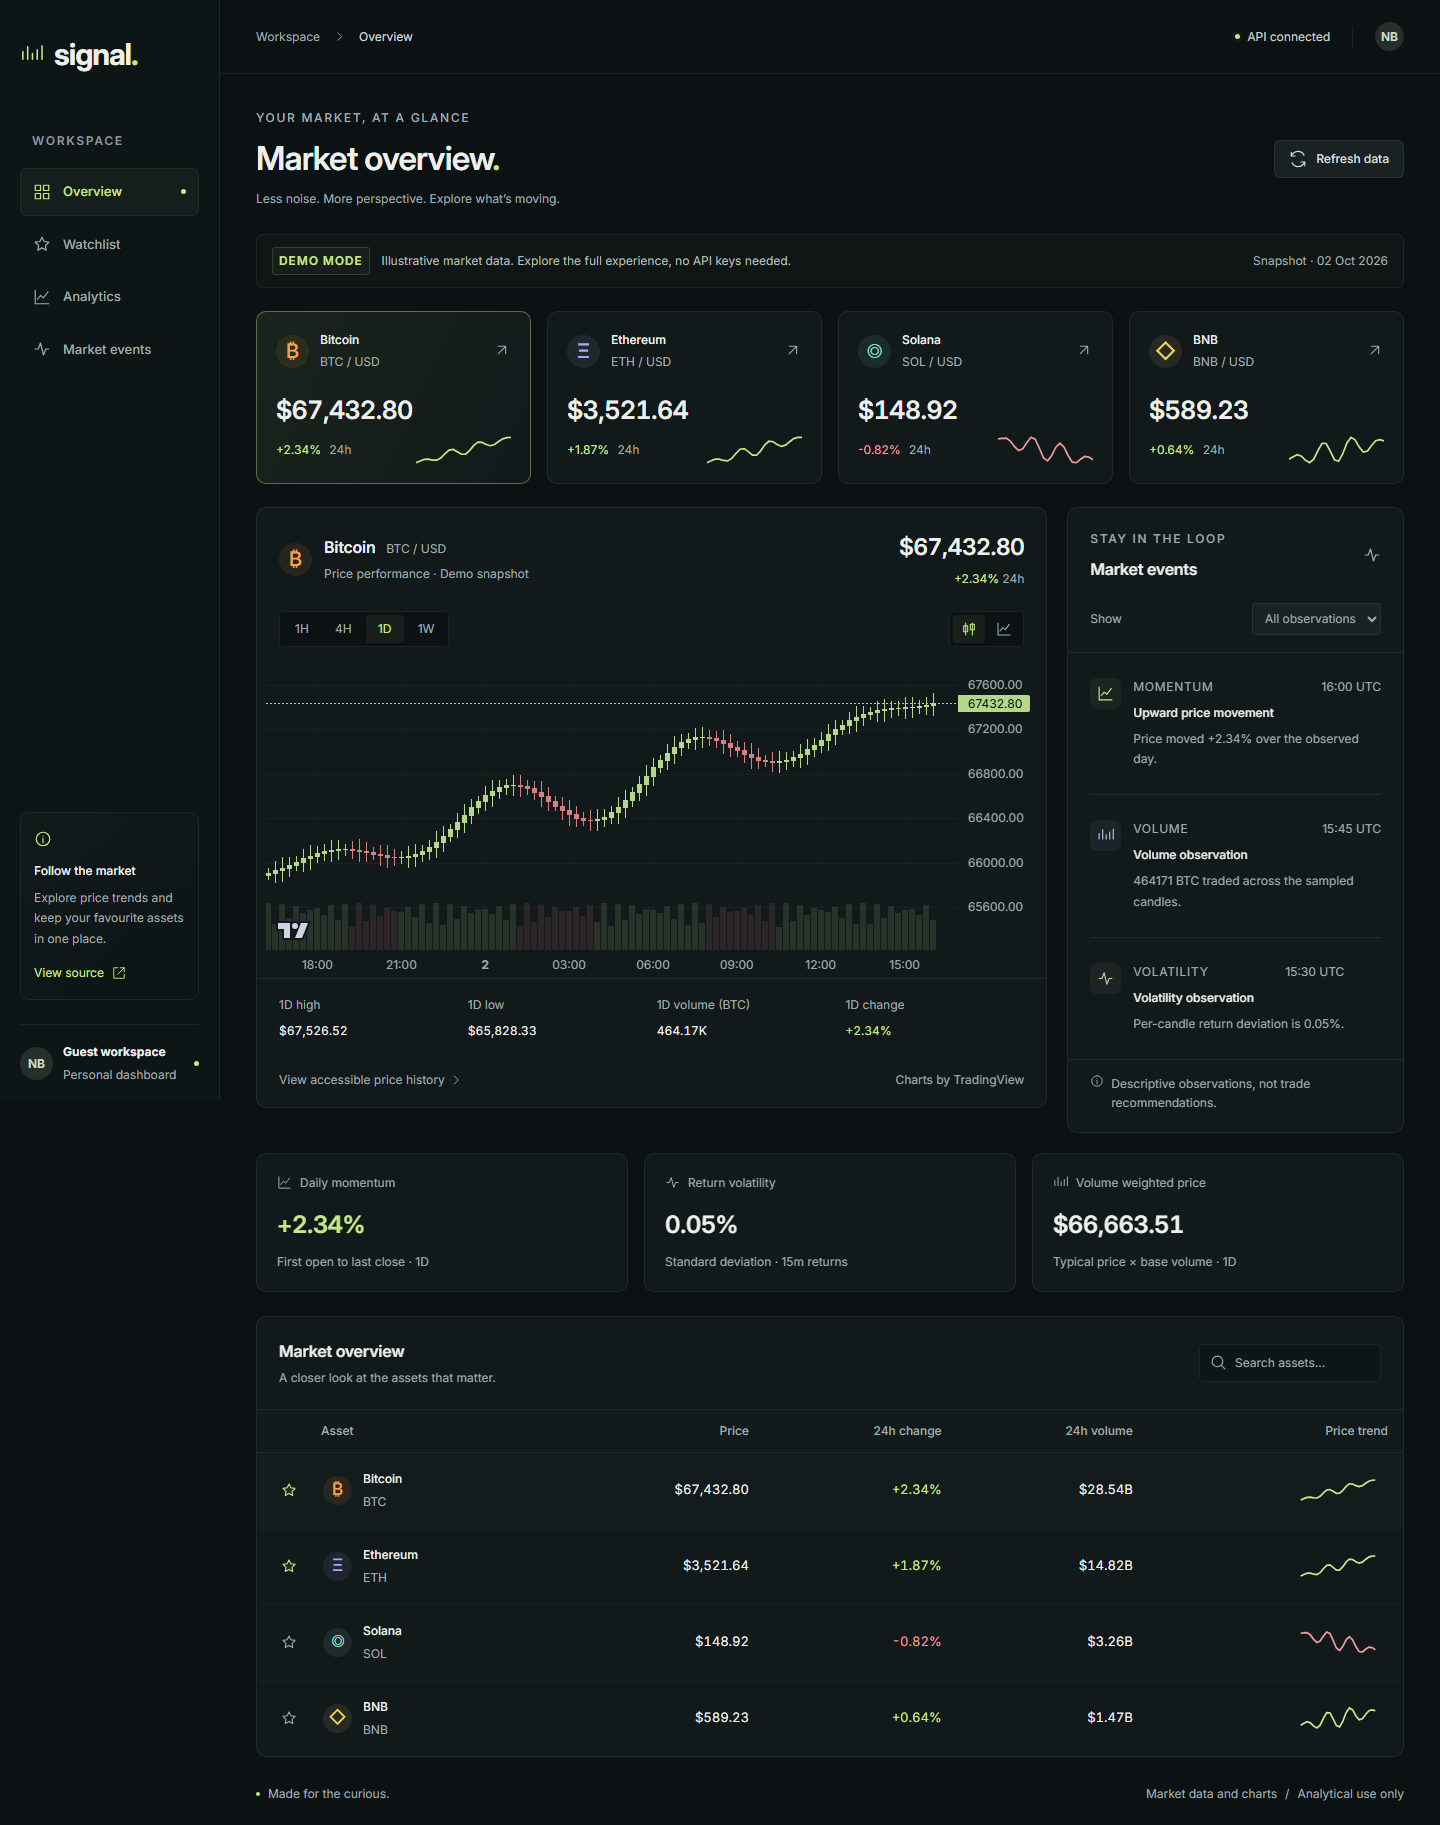
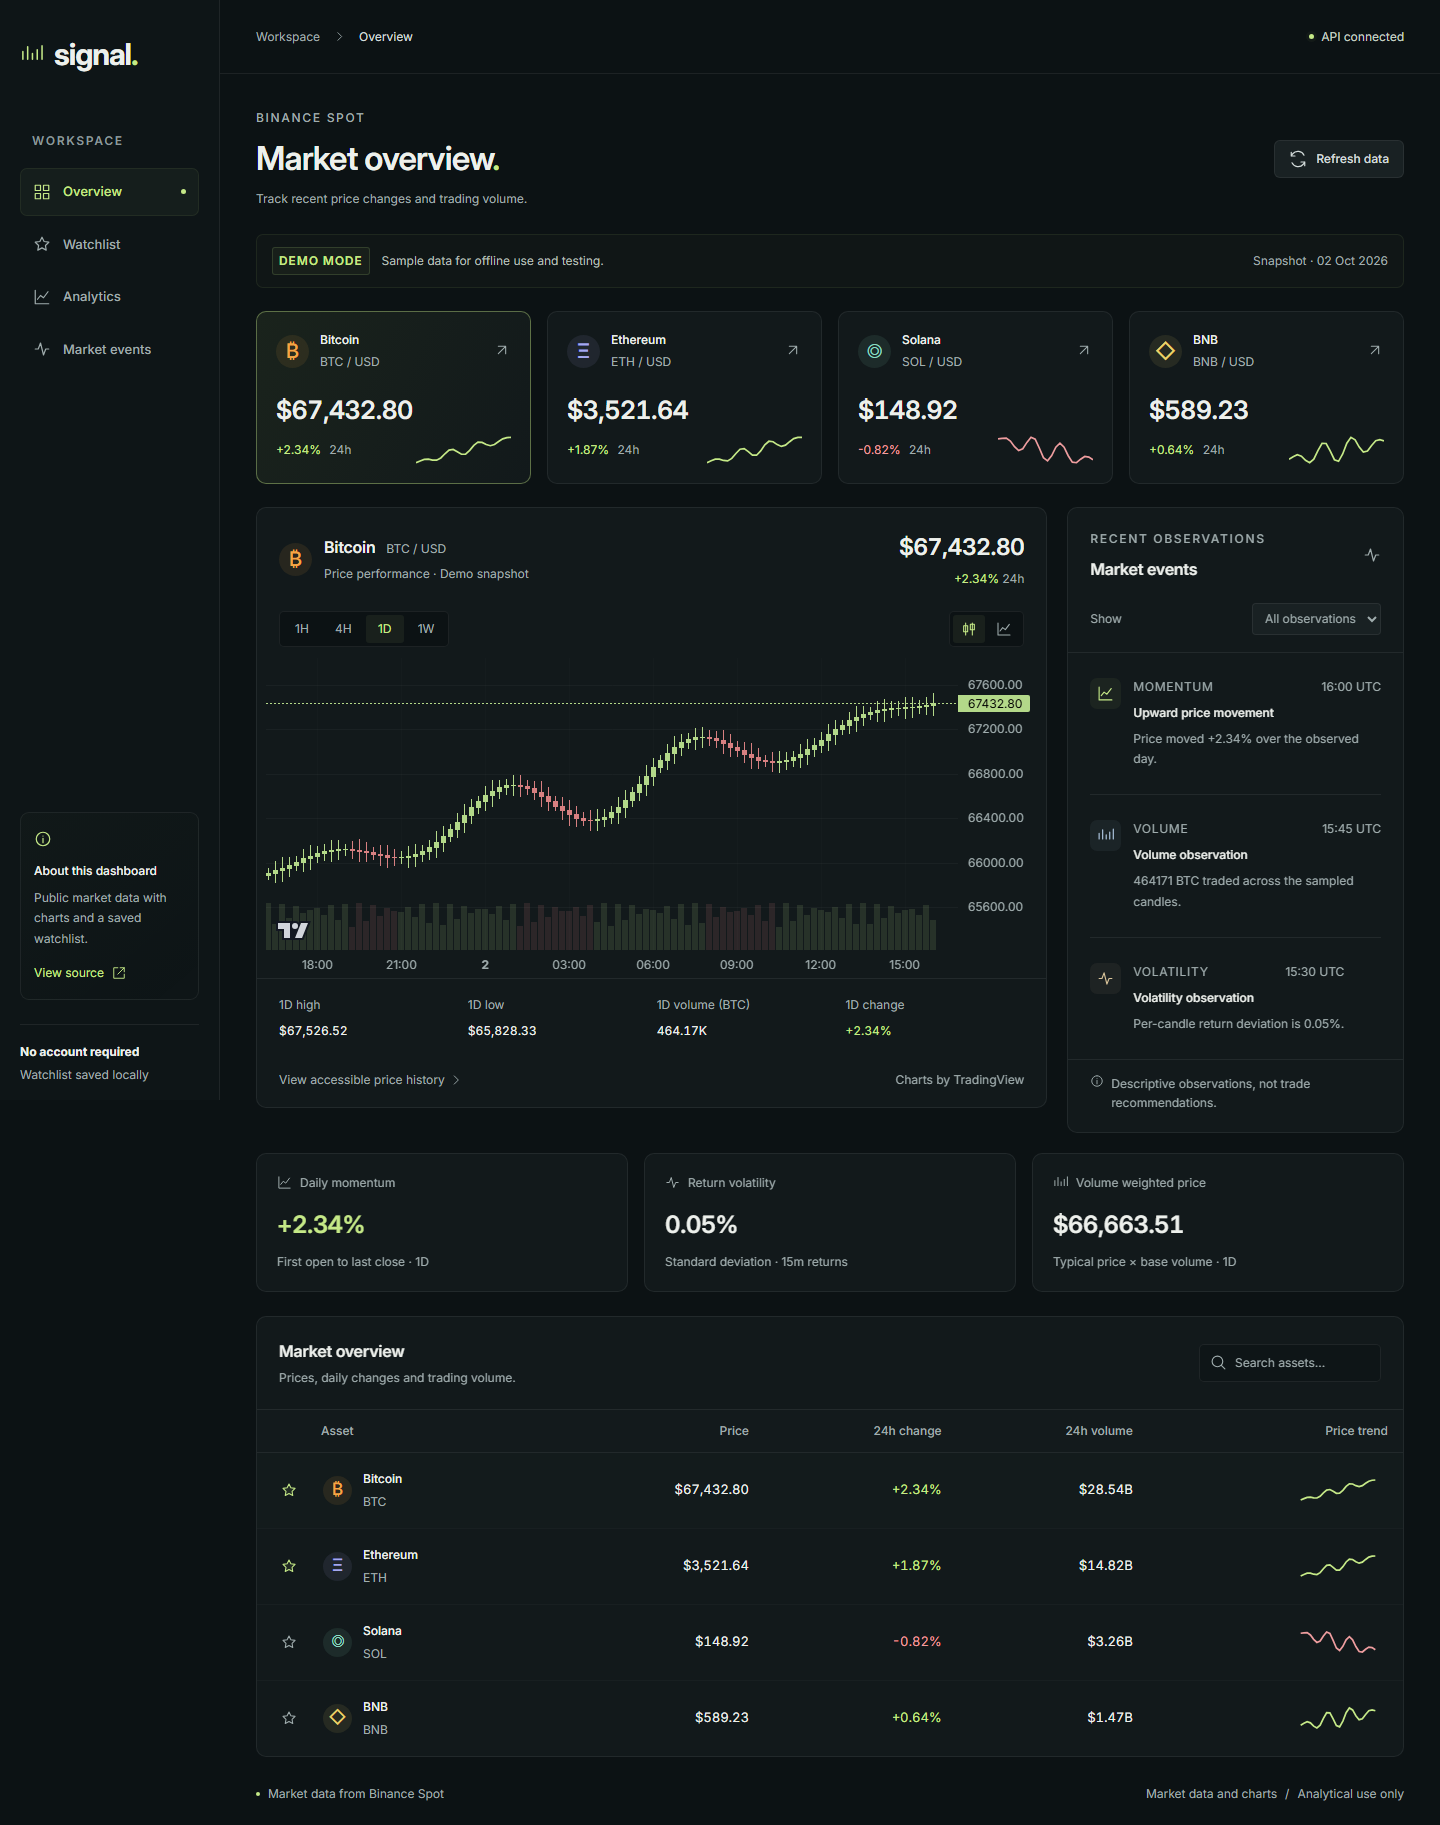
docs: skróć opis dashboardu i odśwież zrzuty ekranu

diff --git a/README.md b/README.md
@@ -1,86 +1,55 @@
 # Trading Dashboard
 
-## O aplikacji
+## O projekcie
 
-Panel do śledzenia Bitcoina, Ethereum, Solany i BNB. Pokazuje ceny, wykresy, listę obserwowanych aktywów i proste obliczenia na podstawie danych rynkowych. Ceny pochodzą z Binance Spot i odświeżają się co minutę. Aplikacja nie służy do składania zleceń.
+Panel do śledzenia Bitcoina, Ethereum, Solany i BNB. Pokazuje ceny, wykresy, listę obserwowanych aktywów i podstawowe statystyki rynku. Dane pochodzą z publicznego API Binance Spot i odświeżają się co minutę. Aplikacja nie służy do składania zleceń.
 
-[Otwórz aplikację](https://trading-dashboard-sandy-six.vercel.app/) · [Wyniki testów](https://github.com/beerck7/trading-dashboard/actions/workflows/ci.yml)
+[Otwórz aplikację](https://trading-dashboard-sandy-six.vercel.app/)
 
-## Funkcje
+## Najważniejsze funkcje
 
 - Aktualne ceny, zmiany dobowe, wolumen i małe wykresy trendu.
 - Wykresy świecowe i obszarowe z zakresami 1H, 4H, 1D i 1W.
-- Wyszukiwarka w tabeli rynków i lista obserwowanych zapisywana w przeglądarce.
-- Obliczenia dynamiki zmian, zmienności i wolumenu dla wybranego aktywa.
-- Stany ładowania, braku danych i błędu, ponowienie pobierania oraz czas ostatniej aktualizacji.
-- Opcjonalny tryb demo bez połączenia z zewnętrznym API rynku.
+- Wyszukiwarka aktywów i lista obserwowanych zapisywana lokalnie.
+- Obliczenia dynamiki zmian, zmienności i ceny ważonej wolumenem.
+- Stany ładowania i błędu, ponowienie żądania oraz czas ostatniej aktualizacji.
+- Tryb demo ze stałymi danymi do pracy bez internetu i testów.
+- Tabela historii cen jako dostępna alternatywa dla wykresu.
 
 ## Technologie
 
-| Narzędzie                            | Zastosowanie                                      |
-| ------------------------------------ | ------------------------------------------------- |
-| Next.js 16, React 19                 | Strony, komponenty i endpointy API                |
-| TypeScript                           | Typowanie i sprawdzanie kodu przed uruchomieniem  |
-| Tailwind CSS 4 i CSS komponentów     | Układ i wygląd interfejsu                         |
-| SWR                                  | Pobieranie, pamięć podręczna i odświeżanie danych |
-| Lightweight Charts                   | Wykresy cen i wolumenu                            |
-| ESLint, testy Node, Playwright i axe | Sprawdzanie kodu, testy i kontrola dostępności    |
+Next.js 16, React 19, TypeScript, Tailwind CSS 4, SWR, Lightweight Charts i Binance REST API. Sprawdzanie kodu: ESLint, testy Node, Playwright i axe.
 
-Skrypty uruchomienia i budowania korzystają z Webpack.
+Komponenty korzystają z hooków SWR, a endpointy Next.js pobierają dane z Binance. Symbol i zakres czasu mają osobny klucz cache. Odpowiedzi API są walidowane przed przekazaniem do wykresu; przy nieudanym odświeżeniu ostatnie poprawne dane pozostają widoczne z ostrzeżeniem.
 
-## Organizacja kodu
+Dane Binance nie wymagają klucza API. Pary są wyceniane w USDT; symbol dolara przy cenie nie oznacza przeliczenia na USD. Statystyki opisują wybrany zbiór świec, bez rekomendacji transakcji. Wykresy korzystają z [TradingView Lightweight Charts](https://github.com/tradingview/lightweight-charts), a lokalny Inter zachowuje [licencję SIL OFL](src/app/fonts/LICENSE.txt).
 
-Komponenty wyświetlają dane i obsługują działania użytkownika. Hooki SWR pobierają dane przez wspólnego klienta API. Endpointy Next.js sprawdzają wybrane aktywo i zakres czasu, a następnie wywołują Binance lub funkcje trybu demo. Obliczenia znajdują się w `utils/analytics.ts`, dzięki czemu można je testować bez React.
+## Uruchomienie
 
-Komponent wykresu tworzy go przy montowaniu, dopasowuje rozmiar do kontenera i usuwa przy odmontowaniu.
+Wymagany Node.js 22+.
 
-## Przepływ danych
-
-```mermaid
-flowchart LR
-  UI[Komponenty] --> Hooks[Hooki SWR]
-  Hooks --> Client[Klient API]
-  Client --> Routes[Endpointy Next.js]
-  Routes --> Live[Binance REST API]
-  Routes --> Demo[Dane demonstracyjne]
+```sh
+npm ci
+npm run dev
 ```
 
-Każde aktywo i zakres czasu mają osobny klucz SWR. Zmiana wyboru pobiera odpowiednie świece. Odpowiedzi są sprawdzane przed przekazaniem do wykresu, ponieważ samo typowanie TypeScript nie waliduje JSON z serwera. Jeśli odświeżenie się nie powiedzie, ostatnie poprawnie pobrane dane pozostają widoczne razem z ostrzeżeniem.
+Otwórz `http://localhost:3000`. Domyślnie działa pobieranie rzeczywistych danych, wymagające internetu. Aby włączyć demo, skopiuj `.env.example` do `.env.local`, ustaw `DATA_MODE=demo` i uruchom serwer ponownie. Błąd API nie przełącza aplikacji automatycznie na demo.
 
-## Dane rynkowe i tryb demo
-
-Domyślnie aplikacja pobiera rzeczywiste dane z [oficjalnego endpointu danych rynkowych Binance](https://github.com/binance/binance-spot-api-docs/blob/master/faqs/market_data_only.md). Nie jest potrzebny klucz API. Pary są wyceniane w **USDT**. Formatowanie z symbolem dolara ułatwia odczyt, ale nie przelicza USDT na USD.
-
-Ustaw `DATA_MODE=demo` w `.env.local`, aby korzystać ze stałych, syntetycznych danych z 2 października 2026 r. Ten tryb przydaje się do pracy bez internetu i powtarzalnych testów. Interfejs pokazuje wybrany tryb. Nieudane pobranie rzeczywistych danych wyświetla błąd i nie przełącza automatycznie na demo.
-
-Aplikacja udostępnia dwa endpointy:
-
-```text
-GET /api/markets
-GET /api/candles?symbol=BTCUSDT&timeframe=1d
+```sh
+npm run lint
+npm run typecheck
+npm test
+npm run build
 ```
 
-Obsługiwane symbole to `BTCUSDT`, `ETHUSDT`, `SOLUSDT` i `BNBUSDT`. Zakresy czasu to `1h`, `4h`, `1d` i `1w`. Niepoprawny wybór zwraca HTTP 400. Limit czasu żądania wynosi osiem sekund; błędy przejściowe powodują najwyżej dwie ponowne próby.
+Po buildzie uruchom aplikację przez `npm start`. Testy przeglądarkowe wymagają zbudowanej aplikacji i Chromium:
 
-Karty analityczne korzystają z prostych obliczeń:
+```sh
+npx playwright install chromium
+npm run test:e2e
+```
 
-- Dynamika zmian (momentum): zmiana między pierwszą ceną otwarcia a ostatnią ceną zamknięcia.
-- Zmienność: odchylenie standardowe kolejnych logarytmicznych stóp zwrotu. Karty dobowe używają świec 15-minutowych; wynik nie jest zmiennością w skali roku.
-- Cena ważona wolumenem: typowa cena świecy `(high + low + close) / 3`, ważona wolumenem aktywa bazowego. To przybliżenie VWAP.
-
-Wolumen na wykresie jest podany w jednostkach aktywa bazowego, a w tabeli rynków w walucie kwotowanej. Opisy zdarzeń dotyczą danych, a nie rekomendacji transakcji.
-
-## Responsywność
-
-Na mniejszych ekranach karty i panele układają się pionowo. Szerokie tabele przewijają się wewnątrz panelu, zachowując widoczną kolumnę aktywa. Nawigacja mobilna otwiera się przyciskiem menu i zamyka klawiszem Escape.
-
-## Dostępność
-
-- Podpisane kontrolki, widoczny fokus i link pozwalający przejść do treści.
-- Tabela pełnej historii cen jako alternatywa dla wykresu na canvas.
-- Tekst i znaki obok kolorów oznaczających zmiany cen.
-- Obsługa preferencji ograniczonego ruchu.
-- Lokalnie ładowany Inter; etykiety i tekst pomocniczy mają co najmniej 12 px. Wykresy używają tego samego fontu.
+Playwright uruchamia serwer w trybie demo na porcie 3000. Zatrzymaj wcześniej inne serwery na tym porcie. Testy sprawdzają m.in. zmianę aktywa i zakresu, listę obserwowanych, błędy API, responsywność i dostępność.
 
 ## Zrzuty ekranu
 
@@ -93,74 +62,6 @@ Na mniejszych ekranach karty i panele układają się pionowo. Szerokie tabele p
 
 </details>
 
-Aby zaktualizować obrazy, uruchom aplikację i wykonaj `node scripts/screenshots.mjs`.
+## Co było celem projektu
 
-## Struktura projektu
-
-```text
-src/
-  app/          # Strony, style, fonty i endpointy API
-  components/   # Komponenty panelu, nawigacji i wykresów
-  hooks/        # Hooki danych rynkowych i listy obserwowanych
-  services/     # Żądania API, walidacja i dane demo
-  constants/    # Aktywa, zakresy czasu i ustawienia odświeżania
-  types/        # Typy danych rynkowych
-  utils/        # Formatowanie i obliczenia
-tests/          # Testy jednostkowe i przeglądarkowe
-docs/           # Zrzuty ekranu i dokumentacja
-```
-
-## Uruchomienie lokalne
-
-Wymagany jest Node.js 22 lub nowszy.
-
-```bash
-git clone https://github.com/beerck7/trading-dashboard.git
-cd trading-dashboard
-npm ci
-npm run dev
-```
-
-Otwórz [localhost:3000](http://localhost:3000). Tryb rzeczywistych danych wymaga internetu. Baza danych i konto na giełdzie nie są potrzebne.
-
-Zbudowanie i uruchomienie aplikacji:
-
-```bash
-npm run build
-npm start
-```
-
-Sprawdzenie kodu i testy:
-
-```bash
-npm run lint
-npm run typecheck
-npm test
-npm run build
-npx playwright install chromium
-npm run test:e2e
-```
-
-Testy przeglądarkowe uruchamiają serwer w trybie demo na porcie 3000. Najpierw zatrzymaj inne serwery używające tego portu. GitHub Actions wykonuje te same kontrole.
-
-## Zmienne środowiskowe
-
-| Zmienna     | Wartość domyślna | Opcje             |
-| ----------- | ---------------- | ----------------- |
-| `DATA_MODE` | `live`           | `live` lub `demo` |
-
-Plik środowiskowy jest opcjonalny. Aby zmienić tryb, skopiuj `.env.example` do `.env.local`, zmień wartość i uruchom serwer ponownie. Żadne sekrety nie są wymagane.
-
-## Publikacja
-
-Aplikacja działa na Vercel. Przy imporcie repozytorium wybierz katalog główny `./` i framework Next.js. `vercel.json` określa komendy instalacji i budowania. Zmiany wysłane na `main` uruchamiają publikację.
-
-## Pomysły na dalszy rozwój
-
-- Eksport CSV i więcej aktywów na liście obserwowanych.
-- Pamięć podręczna na serwerze ograniczająca liczbę żądań do giełdy.
-- Testy w Firefox i Safari oraz ręczne sprawdzenie czytnikiem ekranu.
-
-## Biblioteki i licencje
-
-Wykresy korzystają z [TradingView Lightweight Charts](https://github.com/tradingview/lightweight-charts); oznaczenie autorstwa pozostaje w aplikacji. [Inter](https://github.com/rsms/inter) jest dołączony na licencji [SIL Open Font License](src/app/fonts/LICENSE.txt).
+Połączenie interaktywnego interfejsu React z rzeczywistymi danymi rynkowymi. Chciałem przećwiczyć obsługę pobierania i błędów, integrację wykresów oraz testowanie obliczeń niezależnie od komponentów.
